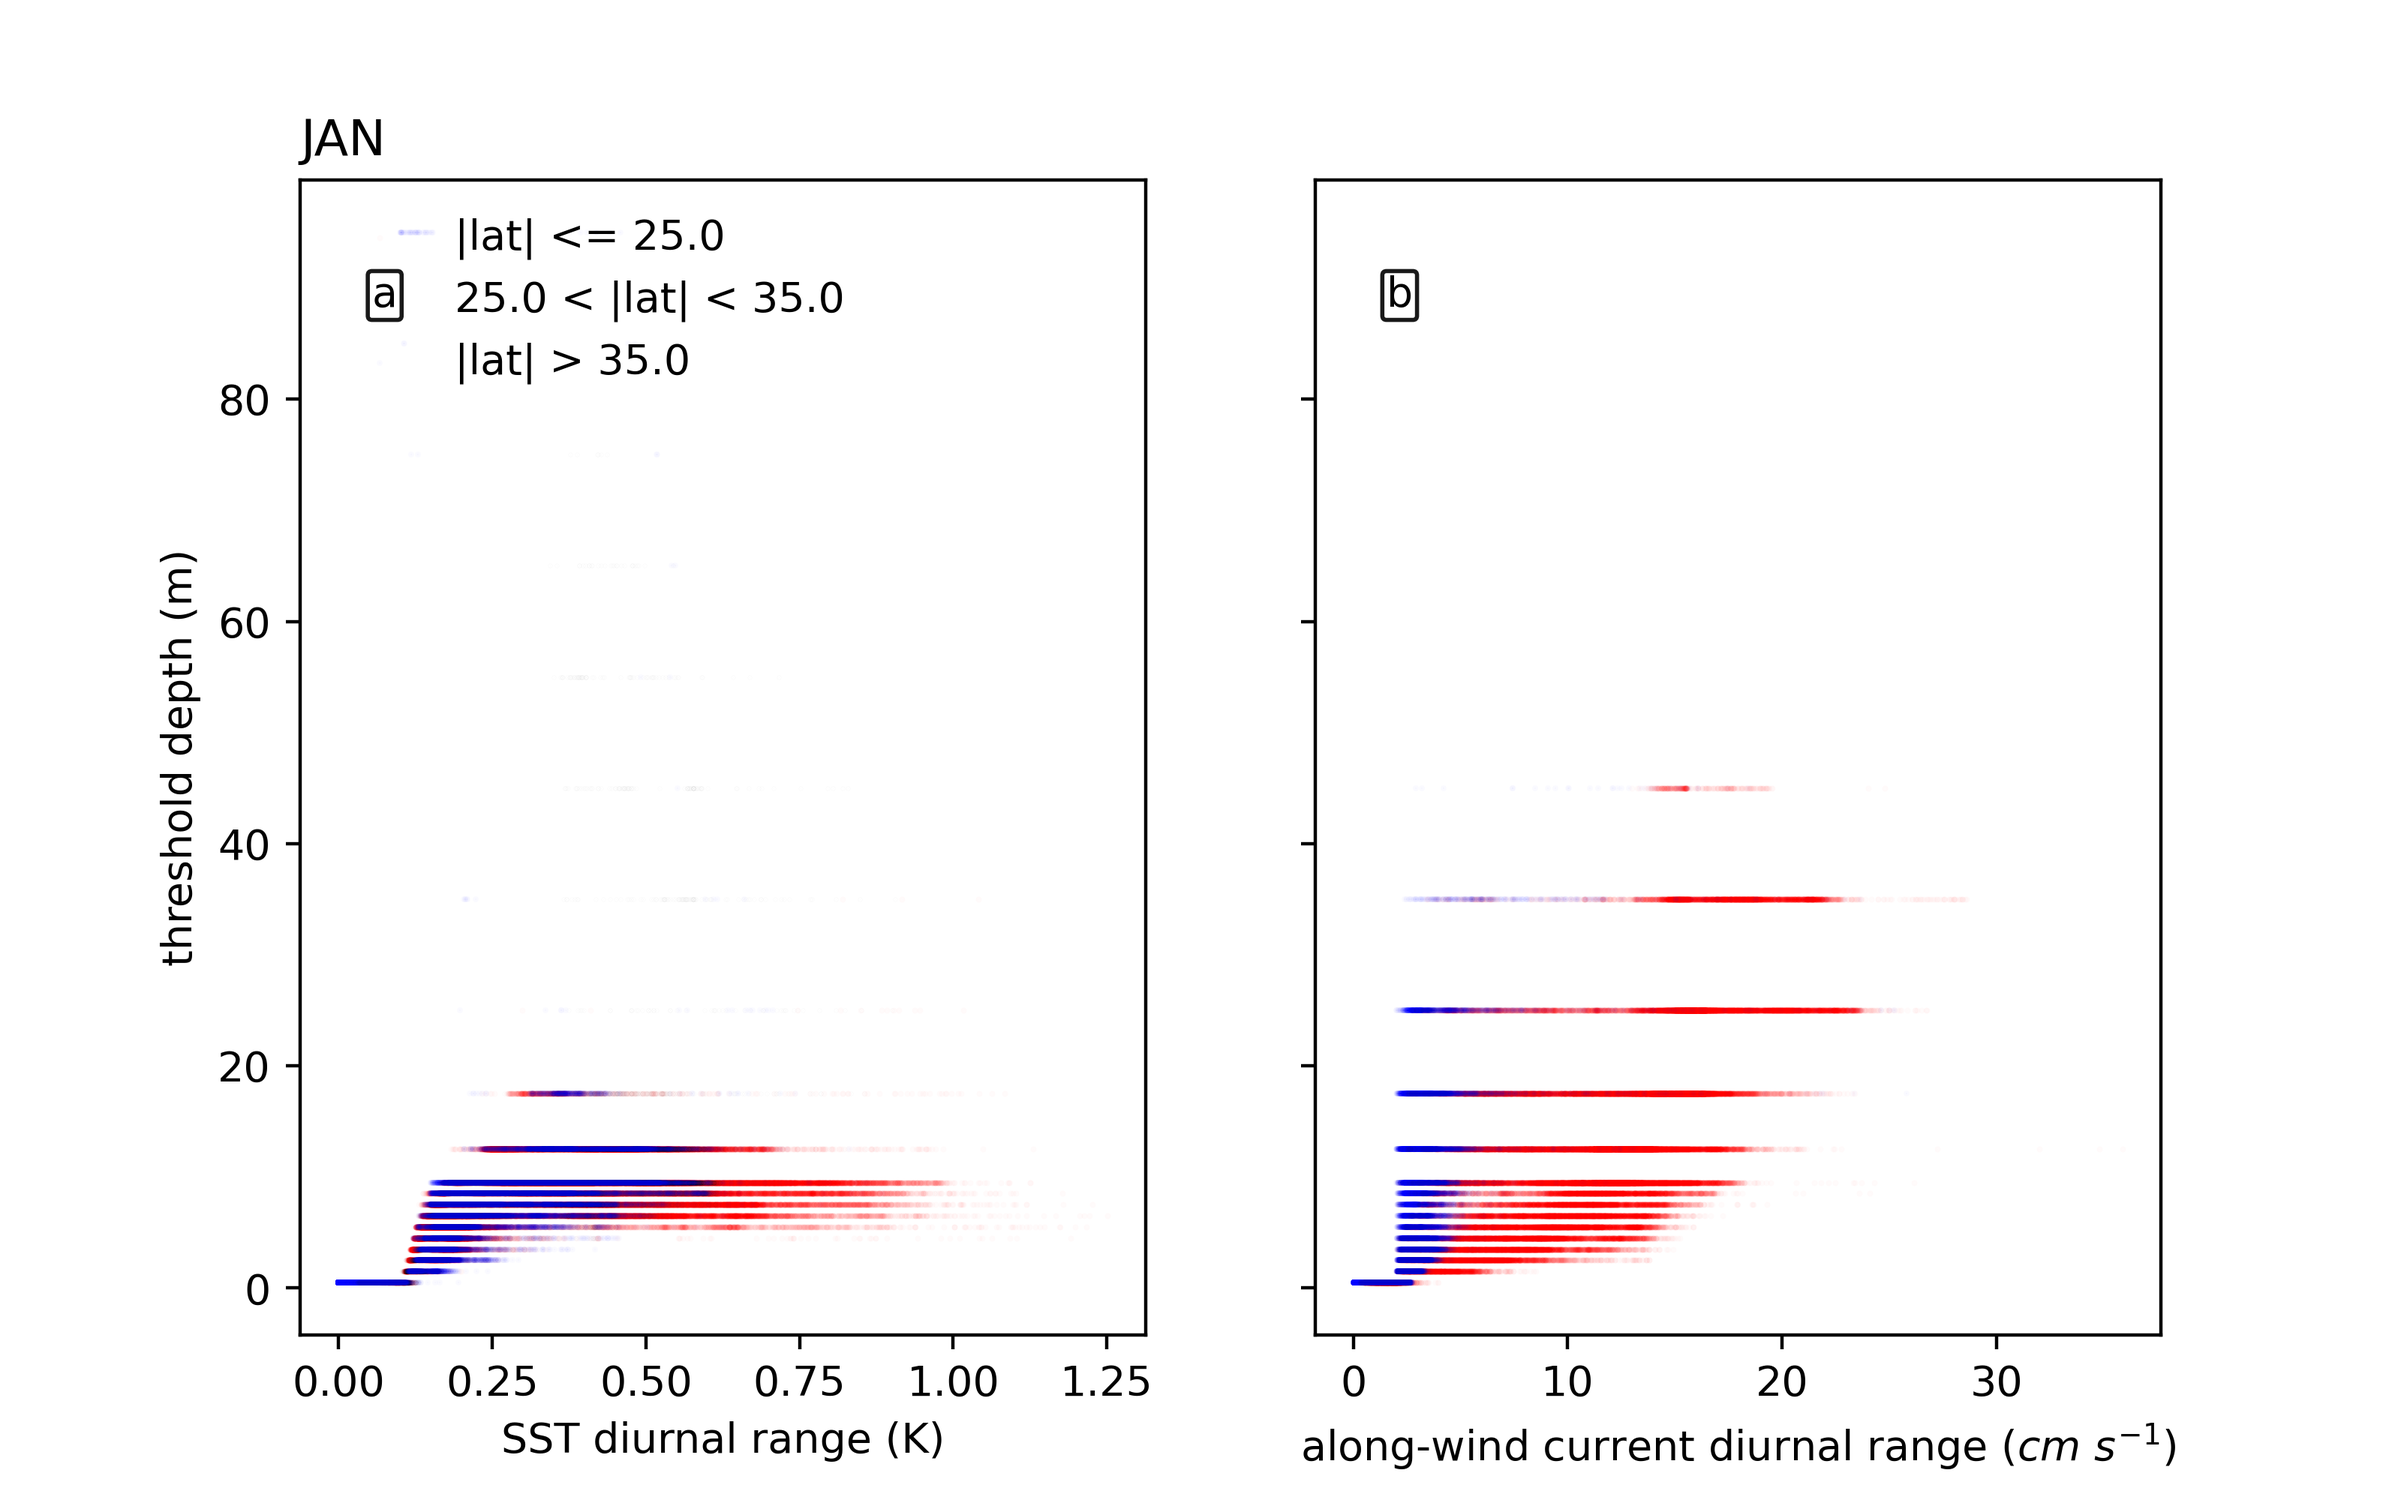
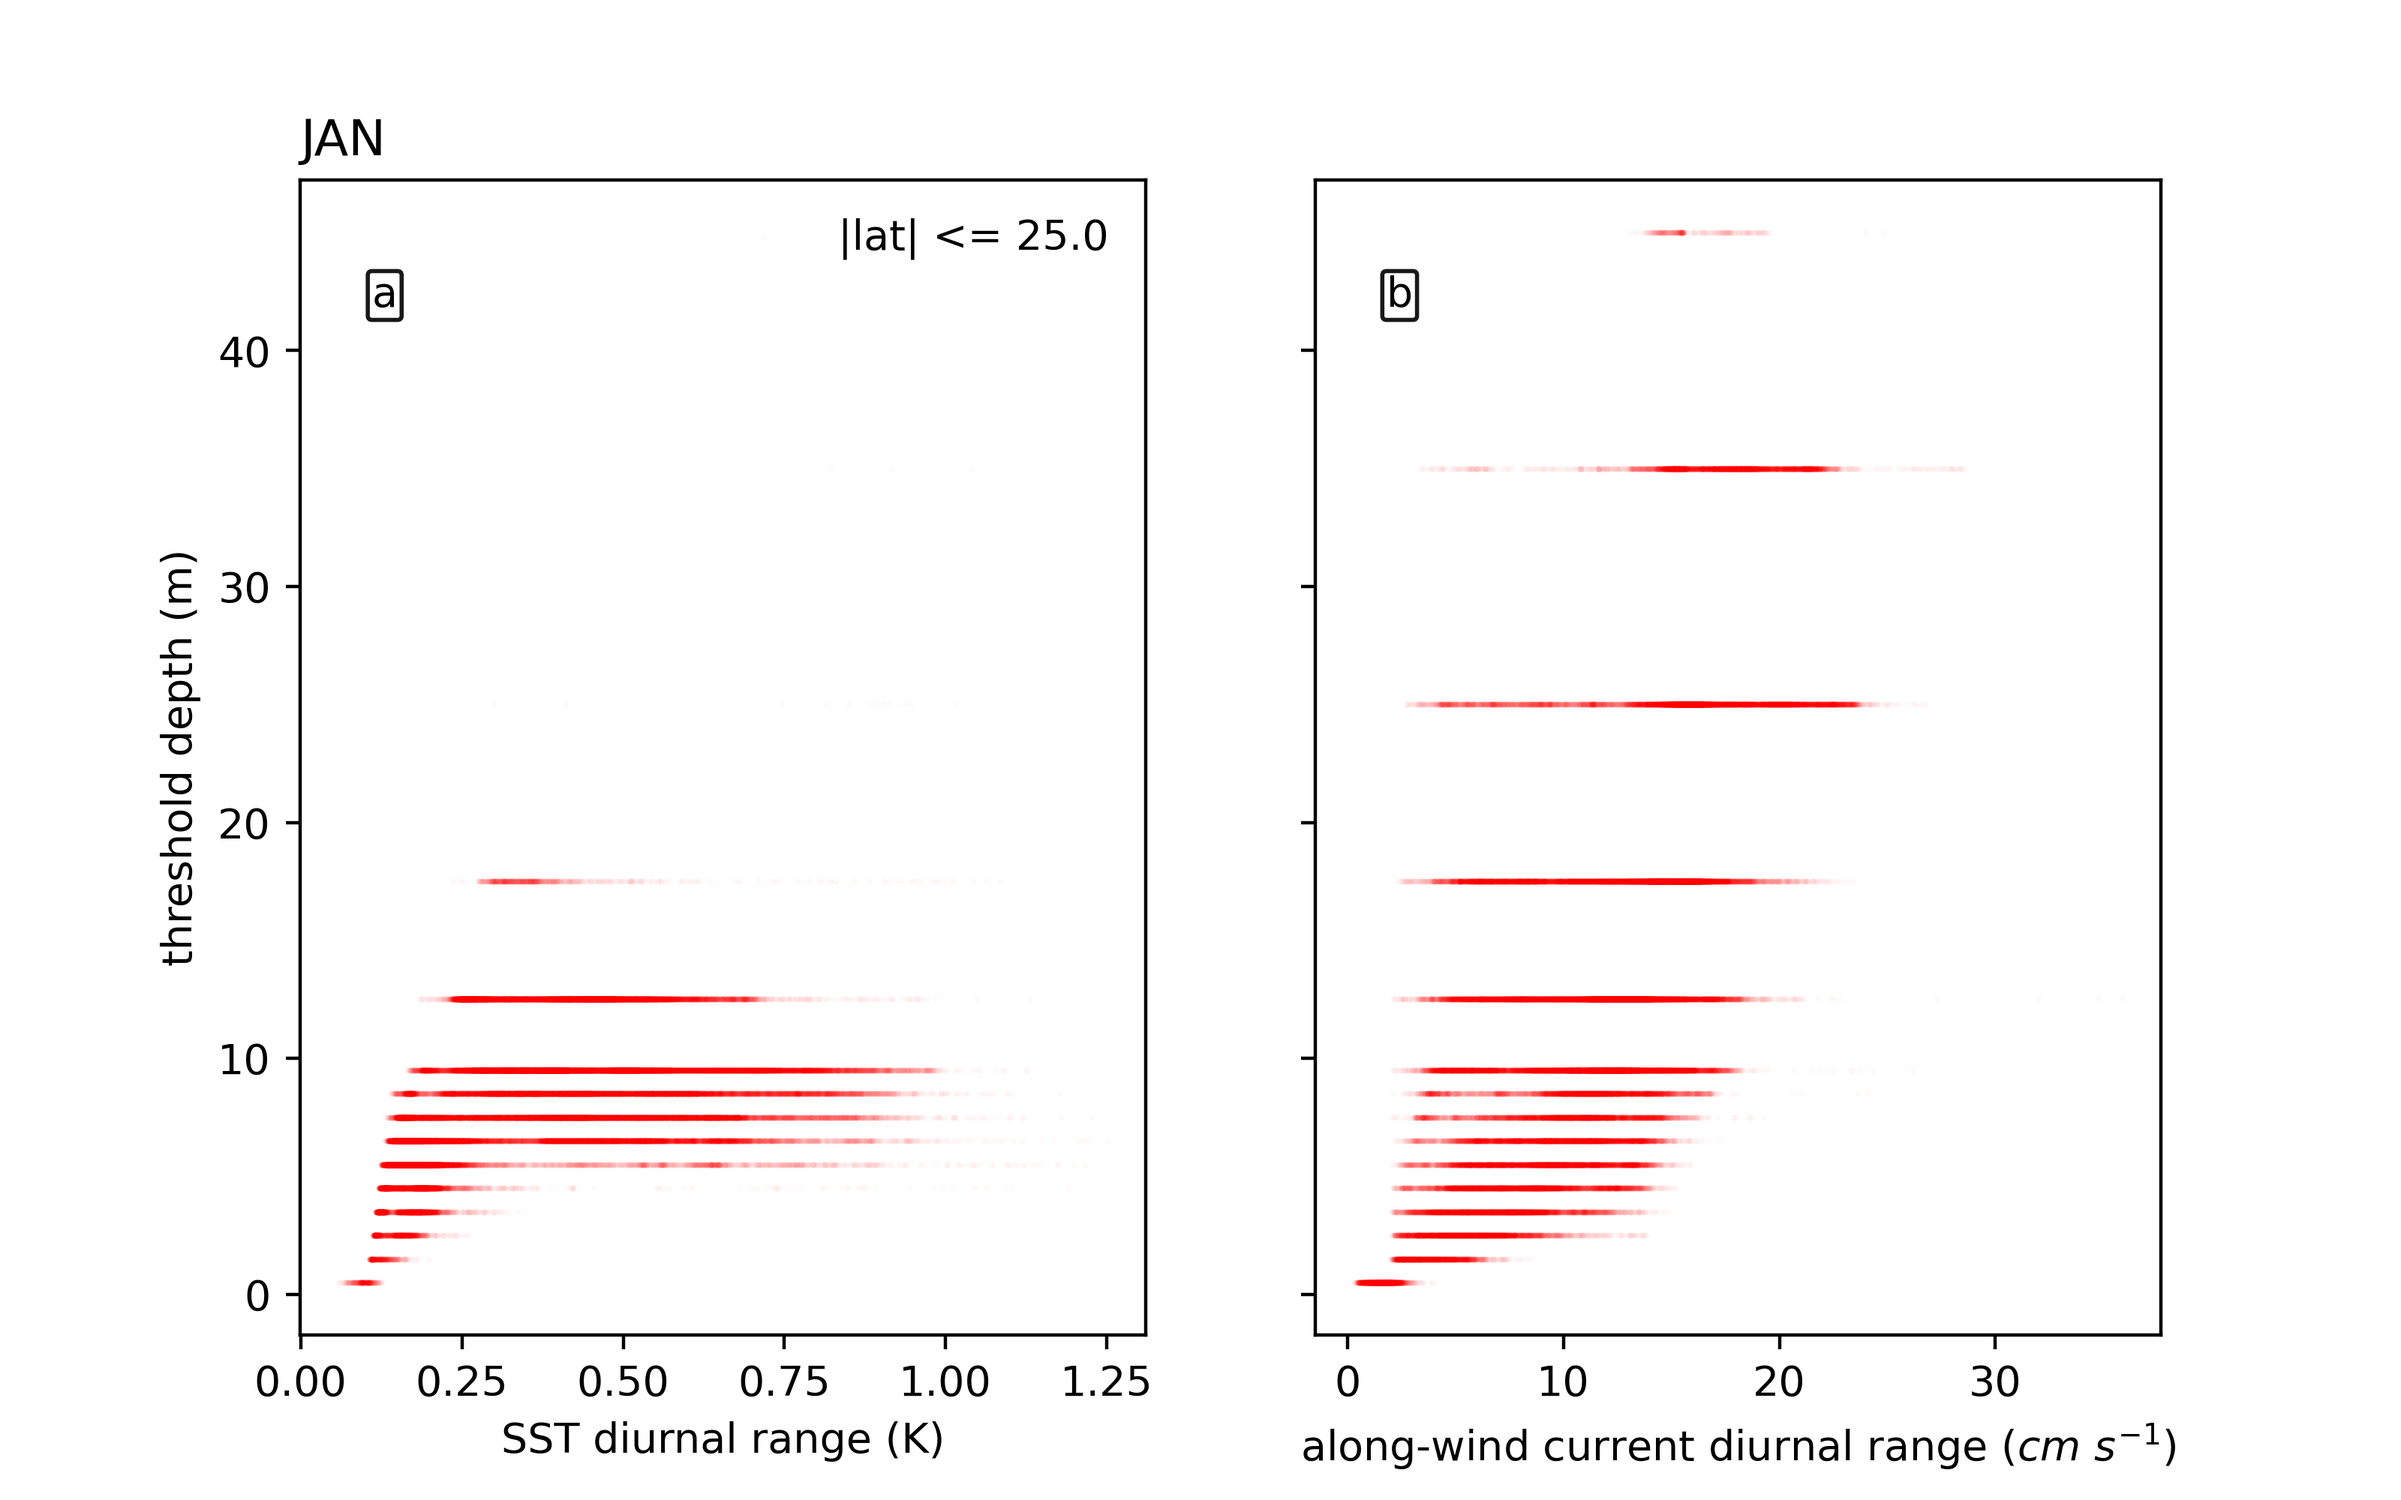
Updates scatter plots.

diff --git a/diurnal_cycle/analysis/surface_threshdepth_scatter.py b/diurnal_cycle/analysis/surface_threshdepth_scatter.py
@@ -94,7 +94,7 @@ def main(plot_month):
                    c='red',
                    s=0.2, marker='o', alpha=0.02,
                    label='|lat| <= ' + str(trop_lim))
-    axs[0].scatter(ds1_m['RANGE'],
+    """axs[0].scatter(ds1_m['RANGE'],
                    ds1_m['THRESH_DEPTH'],
                    c='black',
                    s=0.1, marker='.', alpha=0.02,
@@ -103,17 +103,17 @@ def main(plot_month):
                    ds1_p['THRESH_DEPTH'],
                    c='blue',
                    s=0.2, marker='s', alpha=0.02,
-                   label='|lat| > ' + str(pol_lim))
+                   label='|lat| > ' + str(pol_lim))"""
     axs[1].scatter(ds2_t['RANGE'],
                    ds2_t['THRESH_DEPTH'],
                    c='red',
                    s=0.2, marker='o', alpha=0.02,
                    label='|lat| <= ' + str(trop_lim))
-    axs[1].scatter(ds2_p['RANGE'],
+    """axs[1].scatter(ds2_p['RANGE'],
                    ds2_p['THRESH_DEPTH'],
                    c='blue',
                    s=0.2, marker='s', alpha=0.02,
-                   label='|lat| > ' + str(pol_lim))
+                   label='|lat| > ' + str(pol_lim))"""
     
     # Set plot details.
     axs[0].set_xlabel('SST diurnal range (K)')
@@ -122,7 +122,7 @@ def main(plot_month):
     axs[0].set_title(month_str, loc='left')
 
     # Add legend.
-    axs[0].legend(loc='upper left', frameon=False)
+    axs[0].legend(loc='upper right', frameon=False)
 
     # Add figure letters (a, b, c, etc.).
     axs[0].text(0.1, 0.9, fig_letters[0],
